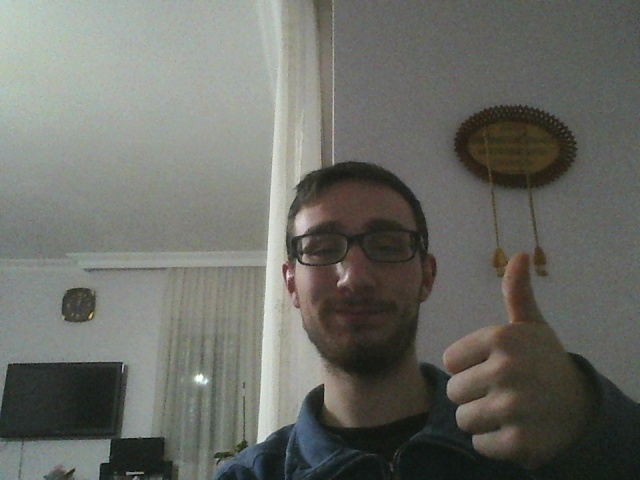
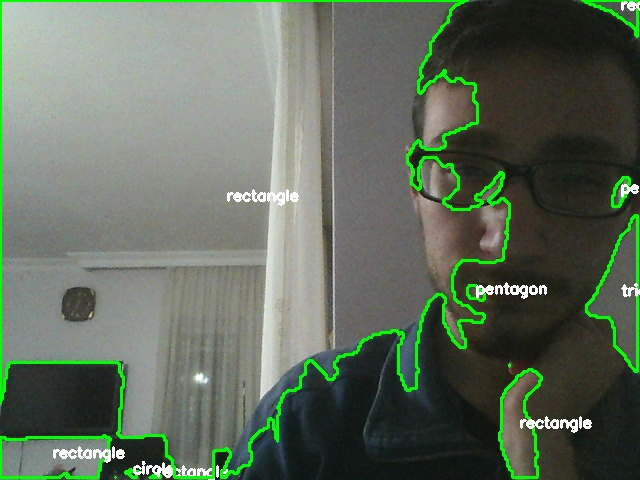
Change file names

diff --git a/notes/drawing.py b/notes/drawing.py
@@ -26,7 +26,7 @@ for i, col in enumerate(color):
     histogram = cv2.calcHist([image], [i], None, [256], [0, 256]) # Inserted i for channel
     plt.plot(histogram, color = col)
     plt.xlim([0,256])
-    
+
 plt.show()
 
 image = np.zeros((512,512,3), np.uint8) # Makes a black square 3 for BGR colors
@@ -35,19 +35,23 @@ image_bw = np.zeros((512,512), np.uint8) # This is for Black & White image (2 di
 cv2.line(image, (0,0), (511,511), (255,127,0), 5) # Draw a line from 0,0 to 512,512 thickness of 5 pixels with the color (255,127,0) blueish
 
 cv2.line(image, starting cordinates, ending cordinates, color, thickness)
-cv2.rectangle(image, starting vertex, opposite vertex, color, thickness) # -1 for thickness fills inside 
-cv2.cirlce(image, center, radius, color, fill) # -1 for thickness fills inside 
+cv2.rectangle(image, starting vertex, opposite vertex, color, thickness) # -1 for thickness fills inside
+cv2.cirlce(image, center, radius, color, fill) # -1 for thickness fills inside
 
 pts = np.array( [[10,50], [400,50], [90,200], [50,500]], np.int32) # Define a polygon with corner points
 pts = pts.reshape((-1,1,2)) # Reshape the points to tell cv2 we want a shape
-cv2.polylines(image, [pts], True, (0,0,255), 3) 
-# Draw a polygon in "image" with [pts] corners 
+cv2.polylines(image, [pts], True, (0,0,255), 3)
+# Draw a polygon in "image" with [pts] corners
 # True for combine the first and the last points
 # color of the polygon is red (0,0,255) and the thickness is 3
 
+# Making a square
+square = np.zeros((300, 300), np.uint8)
+cv2.rectangle(square, (50, 50), (250, 250), 255, -2)
+
+# Making a ellipse
+ellipse = np.zeros((300, 300), np.uint8)
+cv2.ellipse(ellipse, (150, 150), (150, 150), 90, 30, 45, 255, -1)
+
 cv2.putText(image, 'Hello World!', (75,290), cv2.FONT_HERSHEY_COMPLEX, 2, (100,170,0), 3) # Adding text
 # cv2.putText(image, 'Text to Display', bottom left starting point, Font, Font Size, Color, Thickness)
-
-
-
-

diff --git a/notes/image_manipulations.py b/notes/image_manipulations.py
@@ -1,6 +1,6 @@
 """ Translation Matrix T = | 1 0 Tx |
                            | 0 1 Ty | """
-                           
+
 height, width = image.shape[:2]
 shift_height, shift_width = height/4, width/4
 
@@ -12,7 +12,7 @@ img_translation = cv2.warpAffine(image, T, (width, height)) # Shifting quarter o
 
 """ Rotation Matrix R = | cosx -sinx | x is angle
                         | sinx  cosx | """
-                        
+
 R = cv2.getRotationMatrix2D((width/2, height/2), 90, .5) # Rotation Matrix
 # cv2.getRotationMatrix2D(rotation_center_x, rotation_center_y, angle of rotation, scale)
 # getRotationMatrix2D rotates and scales at the same time
@@ -28,7 +28,7 @@ flipped_image = cv2.flip(image, 0) # Flips image horizontally. Needs negative va
 #Interpolation Algorithms
 cv2.INTER_AREA          # Good for shrinking or down ampling
 cv2.INTER_NEAREST       # Fastest
-cv2.INTER_LINEAR        # Good for zooming or up sampling (default) 
+cv2.INTER_LINEAR        # Good for zooming or up sampling (default)
 cv2.INTER_CUBIC         # Better
 cv2.INTER_LANCZOS4      # Best
 
@@ -52,3 +52,9 @@ start_row, start_col = 100, 100
 end_row, end_col = height - 100, width - 100
 cropped = image[start_row:end_row , start_col:end_col]
 
+# Arithmetic Operations - Brightness
+
+M = np.ones(image.shape, dtype = "uint8") # Numpy function for creating matrix of ones
+
+bright_image = cv2.add(image, M*100)
+dark_image = cv2.subtract(image, M*100)

diff --git a/notes/bitwise_operations.py b/notes/bitwise_operations.py
@@ -1,10 +1,3 @@
-# Arithmetic Operations - Brightness
-
-M = np.ones(image.shape, dtype = "uint8") # Numpy function for creating matrix of ones
-
-bright_image = cv2.add(image, M*100)
-dark_image = cv2.subtract(image, M*100)
-
 # Bitwise Operations (Mask Images)
 
 # Making a square
@@ -18,7 +11,7 @@ cv2.ellipse(ellipse, (150, 150), (150, 150), 90, 30, 45, 255, -1)
 # Shows only where they intersect
 bitwiseAnd = cv2.bitwise_and(square, ellipse)
 
-# Shows where either square or ellipse is 
+# Shows where either square or ellipse is
 bitwiseOr = cv2.bitwise_or(square, ellipse)
 
 # Shows where either exist by itself
@@ -26,5 +19,3 @@ bitwiseXor = cv2.bitwise_xor(square, ellipse)
 
 # Shows everything that isn't part of the square
 bitwiseNot = cv2.bitwise_not(square) # Inversing an image
-
-

diff --git a/projects/detect_shapes/detect_shapes.py b/projects/detect_shapes/detect_shapes.py
@@ -5,7 +5,6 @@ import cv2
 #image = cv2.imread("modules/shapes_and_colors.jpg")
 cam = cv2.VideoCapture(0)
 t, image = cam.read()
-cv2.imwrite("modules/shot.jpg", image)
 
 resized = imutils.resize(image, width=300)
 ratio = image.shape[0] / float(resized.shape[0])
@@ -34,6 +33,7 @@ for c in contours:
     cv2.drawContours(image, [c], -1, (0, 255, 0), 2)
     cv2.putText(image, shape, (cX, cY), cv2.FONT_HERSHEY_SIMPLEX, 0.5, (255, 255, 255), 2)
     cv2.imshow("Image", image)
+    cv2.imwrite("modules/shot.jpg", image)
     cv2.waitKey()
 
 cv2.destroyAllWindows()
